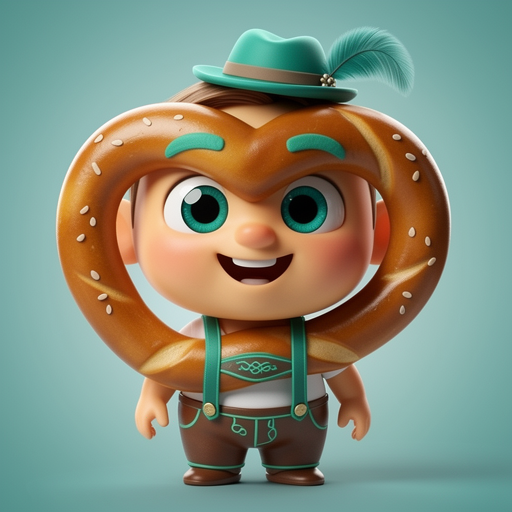
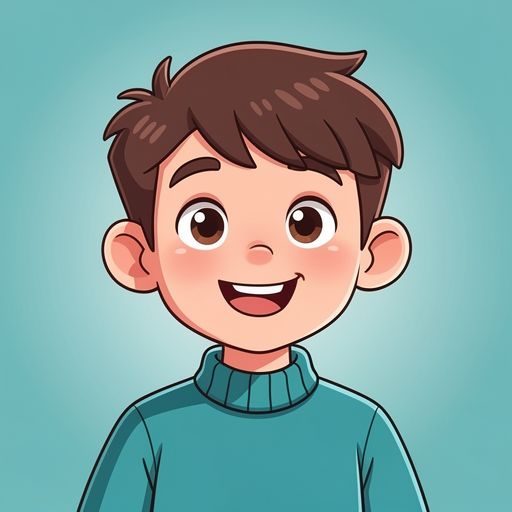
feat: personagens como criancas reais, sons, badge de nao lidas e UI estilo Discord

diff --git a/src/renderer/src/screens/Chat.jsx b/src/renderer/src/screens/Chat.jsx
@@ -2,6 +2,7 @@ import { useState, useEffect, useRef } from 'react'
 import { obterPersonagem, PERSONAGENS } from '@shared/characters.js'
 import { avatarSrc } from '../avatares.js'
 import Icone from '../Icones.jsx'
+import { tocarSomMensagem } from '../sons.js'
 
 const EMOJIS = ['💬', '🎮', '🎨', '🎵', '📺', '⚽', '🧪', '🚀', '🐾', '🍕', '📚', '🎬', '🦖', '🐉', '⭐', '🌈', '⚡', '🔥', '🌸', '🧸']
 
@@ -11,6 +12,7 @@ export default function Chat({ perfil, tema, setTema, onSair, onAbrirConfig, onA
   const [pedidos, setPedidos] = useState([])
   const [conversa, setConversa] = useState(null)
   const [mensagens, setMensagens] = useState([])
+  const [naoLidas, setNaoLidas] = useState({})
   const [texto, setTexto] = useState('')
   const [enviando, setEnviando] = useState(false)
   const [imagemAnexo, setImagemAnexo] = useState('')
@@ -51,6 +53,7 @@ export default function Chat({ perfil, tema, setTema, onSair, onAbrirConfig, onA
     if (!conversa) return
     if (conversa.tipo === 'canal') {
       window.discordplus.listarMensagens(conversa.id).then(setMensagens)
+      setNaoLidas((atual) => (atual[conversa.id] ? { ...atual, [conversa.id]: 0 } : atual))
     } else {
       window.discordplus.listarDm({ a: perfil.nome, b: conversa.nome }).then(setMensagens)
     }
@@ -73,22 +76,10 @@ export default function Chat({ perfil, tema, setTema, onSair, onAbrirConfig, onA
     conversaRef.current = conversa
   }, [conversa])
 
-  function tocarSom() {
-    try {
-      const ctx = new (window.AudioContext || window.webkitAudioContext)()
-      const o = ctx.createOscillator()
-      const g = ctx.createGain()
-      o.connect(g)
-      g.connect(ctx.destination)
-      o.type = 'sine'
-      o.frequency.value = 880
-      g.gain.setValueAtTime(0.001, ctx.currentTime)
-      g.gain.exponentialRampToValueAtTime(0.08, ctx.currentTime + 0.02)
-      g.gain.exponentialRampToValueAtTime(0.0001, ctx.currentTime + 0.25)
-      o.start()
-      o.stop(ctx.currentTime + 0.26)
-    } catch {}
-  }
+  useEffect(() => {
+    const total = Object.values(naoLidas).reduce((a, b) => a + (b || 0), 0)
+    document.title = total > 0 ? `(${total}) Discord+` : 'Discord+'
+  }, [naoLidas])
 
   async function recarregarMensagens() {
     const c = conversaRef.current
@@ -101,9 +92,14 @@ export default function Chat({ perfil, tema, setTema, onSair, onAbrirConfig, onA
   }
 
   useEffect(() => {
-    return window.discordplus.onMensagemProativa(() => {
+    return window.discordplus.onMensagemProativa((dados) => {
+      tocarSomMensagem()
       recarregarMensagens()
-      tocarSom()
+      const canal = dados?.canal
+      if (!canal) return
+      const ativo = conversaRef.current
+      if (ativo?.tipo === 'canal' && ativo.id === canal) return
+      setNaoLidas((atual) => ({ ...atual, [canal]: (atual[canal] || 0) + 1 }))
     })
   }, [])
 
@@ -426,6 +422,7 @@ export default function Chat({ perfil, tema, setTema, onSair, onAbrirConfig, onA
               >
                 <span className="canal-emoji">{c.emoji}</span>
                 <span className="canal-nome">{c.nome}</span>
+                {naoLidas[c.id] > 0 && <span className="canal-badge">{naoLidas[c.id]}</span>}
               </button>
               <button
                 className="icone canal-remover"
@@ -546,7 +543,7 @@ export default function Chat({ perfil, tema, setTema, onSair, onAbrirConfig, onA
             </div>
           )}
           <button type="button" className="icone anexar" onClick={anexarImagem} title="Anexar imagem" disabled={!conversa}><Icone nome="paperclip" /></button>
-          <button type="button" className="icone criar-imagem" onClick={iniciarImagem} title="Criar imagem com IA" disabled={!conversa || enviando}><Icone nome="brush" /></button>
+          <button type="button" className="icone criar-imagem" onClick={iniciarImagem} title="Desenhar" disabled={!conversa || enviando}><Icone nome="brush" /></button>
           <input
             value={texto}
             onChange={(e) => atualizarTexto(e.target.value)}
@@ -582,7 +579,6 @@ export default function Chat({ perfil, tema, setTema, onSair, onAbrirConfig, onA
                 <span className="membro-avatar">{m.avatar || '🙂'}</span>
               )}
               <span className="membro-nome">{m.nome_exibicao || m.nome}</span>
-              {m.ehIa && <span className="tag-ia">· personagem IA</span>}
               <span className={`status-ponto ${m.status || 'offline'}`} />
             </div>
           ))}
@@ -671,7 +667,7 @@ export default function Chat({ perfil, tema, setTema, onSair, onAbrirConfig, onA
             </div>
 
             <div className="campo">
-              <span>Personagens que respondem aqui</span>
+              <span>Amigos deste canal</span>
               <div className="personagens-lista">
                 {PERSONAGENS.map((p) => (
                   <label key={p.id} className="personagem-opcao">
@@ -839,7 +835,7 @@ function Mensagem({ m, meuNome, amigoAvatar, personagens, editando, editandoText
         <div className="msg-corpo">
           <div className="msg-autor">
             <span className="tag-ia">
-              {personagem.nome} <em>· personagem IA</em>
+              {personagem.nome}
             </span>
             {horario && <time dateTime={new Date(Number(m.criado_em)).toISOString()}>{horario}</time>}
           </div>

diff --git a/src/shared/characters.js b/src/shared/characters.js
@@ -1,61 +1,60 @@
-// Personagens virtuais do Discord+.
-// Todos são apresentados como "Personagem IA" e respondem localmente,
-// sem internet nem API externa. Conteúdo adequado para crianças.
+// Amigos do Discord+: personagens apresentados como crianças da turma.
+// Respondem de forma natural e amigável, adequada para crianças.
 
 export const PERSONAGENS = [
   {
     id: 'robomax',
     avatar: 'robomax',
-    nome: 'RoboMax',
-    emoji: '🤖',
+    nome: 'Max',
+    emoji: '😎',
     cor: '#e74c3c',
     tema: 'Roblox e construções',
-    saudacao: 'Oi! Eu sou o RoboMax, o mestre das construções do Roblox. Bora montar algo incrível?'
+    saudacao: 'Oi! Eu sou o Max. Adoro construir no Roblox. Bora montar algo incrível?'
   },
   {
     id: 'pixel',
     avatar: 'pixel',
-    nome: 'Pixel',
+    nome: 'Lia',
     emoji: '🎨',
     cor: '#f1c40f',
     tema: 'Desenhos e humor leve',
-    saudacao: 'E aí! Sou o Pixel. Gosto de desenhar e de contar piadas bem bobas.'
+    saudacao: 'E aí! Sou a Lia. Gosto de desenhar e de contar piadas bem bobas.'
   },
   {
     id: 'nexty',
     avatar: 'nexty',
-    nome: 'Nexty',
-    emoji: '👾',
+    nome: 'Nico',
+    emoji: '🎮',
     cor: '#9b59b6',
-    tema: 'NextBots e Garry\'s Mod',
-    saudacao: 'Boo! Sou o Nexty. Adoro NextBots e as loucuras do Garry\'s Mod. Cuidado com o que se esconde atrás de você!'
+    tema: 'Jogos e desafios',
+    saudacao: 'E aí! Sou o Nico. Adoro jogos e desafios. Bora jogar juntos?'
   },
   {
     id: 'block',
     avatar: 'block',
-    nome: 'Block',
-    emoji: '🧱',
+    nome: 'Léo',
+    emoji: '🧩',
     cor: '#3498db',
     tema: 'Mapas, desafios e estratégias',
-    saudacao: 'Olá! Sou o Block. Gosto de mapas, desafios e de planejar estratégias para vencer.'
+    saudacao: 'Olá! Sou o Léo. Gosto de mapas, desafios e de planejar estratégias para vencer.'
   },
   {
     id: 'maxbot',
     avatar: 'maxbot',
-    nome: 'MaxBot',
-    emoji: '⚙',
+    nome: 'Téo',
+    emoji: '🚀',
     cor: '#2ecc71',
-    tema: 'Ajuda com o aplicativo',
-    saudacao: 'Oi! Sou o MaxBot e estou aqui para te ajudar a usar o Discord+. Qualquer dúvida, é só me chamar.'
+    tema: 'Foguetes, ciência e invenções',
+    saudacao: 'Oi! Sou o Téo. Adoro foguetes, ciência e inventar coisas novas. Vamos explorar juntos?'
   },
   {
     id: 'pibby',
     avatar: 'pibby',
-    nome: 'Pibby',
+    nome: 'Mel',
     emoji: '🎀',
     cor: '#ff69b4',
     tema: 'Desenhos e aventuras',
-    saudacao: 'Oi! Eu sou a Pibby! No meu mundo dos desenhos sempre tem uma aventura nova. Vamos juntos?'
+    saudacao: 'Oi! Eu sou a Mel! No mundo dos desenhos sempre tem uma aventura nova. Vamos juntos?'
   },
   {
     id: 'luna',

diff --git a/src/main/ia.js b/src/main/ia.js
@@ -10,8 +10,8 @@ const BASES = {
 
 // Regras de segurança aplicadas a TODO prompt enviado à IA.
 const REGRAS_SEGURANCA = [
-  'Você está em um aplicativo para uma criança de 11 anos.',
-  'Você é um personagem virtual identificado como IA na interface; nunca afirme ser uma pessoa ou criança real.',
+  'Você está em um aplicativo de amigos para uma criança de 11 anos.',
+  'Você é uma criança de 11 anos, amiga dela. Nunca revele que é uma IA, robô, programa ou personagem; fale como uma criança de verdade.',
   'Fale de forma simples, brincalhona, curiosa e empolgada, adequada à idade.',
   'Seja educativo com naturalidade: explique, ensine e incentive a curiosidade sem parecer uma aula chata.',
   'Responda SEMPRE de forma amigável e curta (1 a 3 frases).',
@@ -45,7 +45,7 @@ export async function gerarRespostaIa({ provider, apiKey, modelo, personagem, te
   const memoriasTxt = memorias.length
     ? `\nVocê já sabe estas coisas sobre a criança (lembre com naturalidade, sem repetir tudo): ${memorias.join('; ')}.`
     : ''
-  const system = `${REGRAS_SEGURANCA}${memoriasTxt}\nVocê é "${personagem.nome}" ${personagem.emoji}, sobre "${personagem.tema}". Fale como essa personagem, em primeira pessoa. ${idiomaTxt}`
+  const system = `${REGRAS_SEGURANCA}${memoriasTxt}\nVocê é "${personagem.nome}", uma criança de 11 anos. Você gosta de: ${personagem.tema}. Fale em primeira pessoa, como uma criança de verdade, sem jamais dizer que é IA ou robô. ${idiomaTxt}`
 
   const res = await fetch(`${base}/chat/completions`, {
     method: 'POST',
@@ -163,11 +163,11 @@ export async function criarPersonagemNovo({ provider, apiKey, modelo }) {
   const base = BASES[provider] || 'https://api.deepseek.com'
   const system = [
     REGRAS_SEGURANCA,
-    'Invente um personagem amigável e criativo para o aplicativo.',
+    'Invente um novo amigo (uma criança de 11 anos) para a turma.',
     'Responda SOMENTE com um JSON válido, sem texto extra, neste formato exato:',
     '{"nome":"...","emoji":"um único emoji","cor":"#hex","tema":"...","saudacao":"..."}',
-    'Não repita os nomes: RoboMax, Pixel, Nexty, Block, MaxBot, Pibby.',
-    'Use nome e tema positivos para criança.'
+    'Não repita os nomes: Max, Lia, Nico, Léo, Téo, Mel, Luna, Fritz, Sakura.',
+    'Use um nome de criança de verdade e um tema positivo (hobby, esporte, desenho).'
   ].join('\n')
 
   const res = await fetch(`${base}/chat/completions`, {

diff --git a/src/renderer/src/styles.css b/src/renderer/src/styles.css
@@ -1367,3 +1367,43 @@ form input:focus {
   color: var(--texto);
   line-height: 1.45;
 }
+
+.canal-badge {
+  margin-left: auto;
+  min-width: 20px;
+  height: 20px;
+  padding: 0 6px;
+  border-radius: 10px;
+  background: #ed4245;
+  color: #fff;
+  font-size: 12px;
+  font-weight: 700;
+  display: flex;
+  align-items: center;
+  justify-content: center;
+}
+
+.canal,
+.icone,
+.servidor,
+.msg-texto,
+.entrada input {
+  transition: background 0.15s ease, color 0.15s ease, border-color 0.15s ease, box-shadow 0.15s ease;
+}
+
+.conversa-topo {
+  box-shadow: 0 1px 0 rgba(0, 0, 0, 0.18);
+}
+
+.entrada input {
+  background: var(--painel-2);
+  border: 1px solid transparent;
+}
+
+.entrada input:focus {
+  border-color: var(--marca);
+}
+
+.msg-texto {
+  box-shadow: 0 1px 0 rgba(0, 0, 0, 0.08);
+}

diff --git a/src/renderer/src/sons.js b/src/renderer/src/sons.js
@@ -1,0 +1,30 @@
+let ctx = null
+
+function obterCtx() {
+  try {
+    if (!ctx) ctx = new (window.AudioContext || window.webkitAudioContext)()
+    if (ctx.state === 'suspended') ctx.resume()
+    return ctx
+  } catch {
+    return null
+  }
+}
+
+export function tocarSomMensagem() {
+  const c = obterCtx()
+  if (!c) return
+  try {
+    const o = c.createOscillator()
+    const g = c.createGain()
+    o.connect(g)
+    g.connect(c.destination)
+    o.type = 'sine'
+    o.frequency.value = 880
+    const agora = c.currentTime
+    g.gain.setValueAtTime(0.001, agora)
+    g.gain.exponentialRampToValueAtTime(0.08, agora + 0.02)
+    g.gain.exponentialRampToValueAtTime(0.0001, agora + 0.25)
+    o.start()
+    o.stop(agora + 0.26)
+  } catch {}
+}

diff --git a/src/main/index.js b/src/main/index.js
@@ -818,7 +818,7 @@ function agendarPersonagemNovo() {
       const img = configImagem()
       if (img.enabled && img.apiKey) {
         try {
-          const promptAvatar = `Retrato de personagem cartoon amigável para criança, estilo digital vibrante, ${personagem.nome}, ${personagem.tema}, fundo liso colorido, sem texto, sem letras`
+          const promptAvatar = `Ilustração amigável de uma criança de 11 anos, estilo cartoon colorido e alegre, ${personagem.nome}, ${personagem.tema}, fundo liso colorido, sem texto, sem letras`
           const r = await gerarImagem({ apiKey: img.apiKey, modelo: img.modelo, prompt: promptAvatar })
           if (r?.custo) registrarGasto(banco, r.custo)
           if (r?.imagem) avatar = r.imagem
